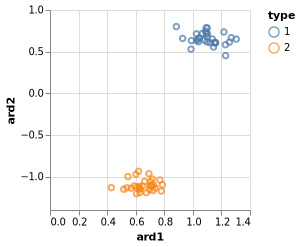
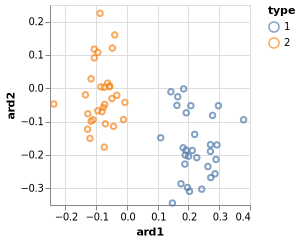
mu

Changed region(s): [[0.0, 0.0, 0.84, 0.9835], [0.87, 0.0289, 0.99, 0.2314]]

diff --git a/markdown/11-probabilistic-pca/11-probabilistic-pca.md b/markdown/11-probabilistic-pca/11-probabilistic-pca.md
@@ -93,34 +93,34 @@ DataFrames.stack(df_exp, 1:n_genes) |>
 
 
 
-Here, you see the simulated data. You can see two groups of cells that differ in the expression of genes. While the difference between the two groups of cells here is fairly obvious from looking at the raw data, in practice and with large enough data sets, it is often impossible to spot the differences from the raw data alone. If you have some patience and compute ressources you can increase the size of the dataset, or play around with the noise levels to make the problem increasingly harder.
+Here, you see the simulated data. You can see two groups of cells that differ in the expression of genes. While the difference between the two groups of cells here is fairly obvious from looking at the raw data, in practice and with large enough data sets, it is often impossible to spot the differences from the raw data alone. If you have some patience and compute resources you can increase the size of the dataset, or play around with the noise levels to make the problem increasingly harder.
 
 ### pPCA model
 ```julia
-@model function pPCA(x, ::Type{T} = Float64) where {T}
-
+@model function pPCA(x, ::Type{TV} = Array{Float64}) where {TV}
   # Dimensionality of the problem.
   N, D = size(x)
 
   # latent variable z
-  z = Matrix{T}(undef, D, N)
-  for n in 1:N
-    z[:, n] ~ MvNormal(D, 1.)
-  end
+  z ~ filldist(Normal(0.0, 1.0), D, N)
+
+  # side note for the curious
+  # we use the more concise filldist syntax partly for compactness, but also for compatibility with other AD
+  # backends, see the [Turing Performance Tipps](https://turing.ml/dev/docs/using-turing/performancetips)
+  # w = TV{2}(undef, D, D)
+  # for d in 1:D
+  #  w[d, :] ~ MvNormal(D, 1.)
+  # end
 
   # weights/loadings W
-  w = Matrix{T}(undef, D, D)
-  for d in 1:D
-    w[d, :] ~ MvNormal(D, 1.)
-  end
+  w ~ filldist(Normal(0.0, 1.0), D, D)
 
   # mean offset
-  mean ~ MvNormal(D, 1.0)
-  mu = w * z .+ mean
+  m ~ MvNormal(D, 1.0)
+  mu = (w * z .+ m)'
   for d in 1:D
-    x[:,d] ~ MvNormal(mu[d,:], 1.)
+    x[:,d] ~ MvNormal(mu[:,d], 1.)
   end
-
 end;
 ```
 
@@ -133,8 +133,7 @@ Here, we run the inference with the NUTS sampler. Feel free to try different sam
 
 ```julia
 ppca = pPCA(expression_matrix)
-n_iterations = 300
-chain = sample(ppca, NUTS(), MCMCThreads(), n_iterations, 1);
+chain = sample(ppca, NUTS(), 500);
 ```
 
 
@@ -146,13 +145,12 @@ chain = sample(ppca, NUTS(), MCMCThreads(), n_iterations, 1);
 A quick sanity check. We reconstruct the input data from our parameter estimates, using the posterior mean as parameter estimates.
 
 ```julia
-# Extract paramter estimates for plotting - mean of posterior
+# Extract parameter estimates for plotting - mean of posterior
 w = permutedims(reshape(mean(group(chain, :w))[:,2], (n_genes, n_genes)))
 z = permutedims(reshape(mean(group(chain, :z))[:,2], (n_genes, n_cells)))'
-mu = mean(group(chain, :mean))[:,2]
+mu = mean(group(chain, :m))[:,2]
 
 X = w * z .+ mu
-X = w * z
 
 df_rec = DataFrame(X', :auto)
 df_rec[!,:cell] = 1:n_cells
@@ -205,43 +203,30 @@ You can find more details about this in the Bishop book mentioned in the introdu
 
 
 ```julia
-@model function pPCA_ARD(x, ::Type{T} = Float64) where {T}
-
+@model function pPCA_ARD(x, ::Type{TV} = Array{Float64}) where {TV}
   # Dimensionality of the problem.
   N, D = size(x)
 
   # latent variable z
-  z = Matrix{T}(undef, D, N)
-  for n in 1:N
-    z[:, n] ~ MvNormal(D, 1.)
-  end
+  z ~ filldist(Normal(), D, N)
 
   # weights/loadings w with Automatic Relevance Determination part
-  alpha = Vector{T}(undef, D)
-  for d in 1:D
-    alpha[d] ~ Gamma(1., 1.)
-  end
+  alpha ~ filldist(Gamma(1., 1.), D)
+  w ~ filldist(MvNormal(1. ./ sqrt.(alpha)), D)
 
-  w = Matrix{T}(undef, D, D)
-  for d in 1:D
-    w[d, :] ~ MvNormal(zeros(D), 1. ./ sqrt.(alpha))
-  end
-
-  mu = w * z
+  mu = (w * z)'
 
   tau ~ Gamma(1.0, 1.0);
   for d in 1:D
-    x[:,d] ~ MvNormal(mu[d,:], 1. / sqrt(tau))
+    x[:,d] ~ MvNormal(mu[:, d], 1. / sqrt(tau))
   end
-
 end;
 ```
 
 
 ```julia
 ppca_ARD = pPCA_ARD(expression_matrix)
-n_iterations = 400
-chain = sample(ppca_ARD, NUTS(), MCMCThreads(), n_iterations, 1)
+chain = sample(ppca_ARD, NUTS(), 500)
 
 StatsPlots.plot(group(chain, :alpha))
 ```
@@ -262,15 +247,15 @@ z = permutedims(reshape(mean(group(chain, :z))[:,2], (n_genes, n_cells)))'
 
 ```
 9-element Vector{Float64}:
- 3.447150319289705
- 0.07532134194323332
- 0.07754397424990225
- 3.6029909065586874
- 3.4102919134808274
- 3.4895349964035596
- 3.380911472677809
- 3.507756238668494
- 3.5031739081430793
+ 0.25576143792759143
+ 0.2581926916026036
+ 0.27122756902110895
+ 4.357986513425213
+ 3.9485910549054957
+ 4.3886567845446125
+ 0.27628194041153903
+ 0.2623082444567099
+ 0.25699286794405307
 ```
 
 
@@ -339,18 +324,16 @@ First, let's look at the original data using the pPCA model.
 ```julia
 ppca = pPCA(dat)
 
-# Here we use a different samples, we don't always have to use NUTS:
+# Here we use a different sampler, we don't always have to use NUTS:
 # Hamiltonian Monte Carlo (HMC) sampler parameters
-n_iterations = 500
 ϵ = 0.05
 τ = 10
+chain = sample(ppca, HMC(ϵ, τ), 1000)
 
-chain = sample(ppca, HMC(ϵ, τ), n_iterations)
-
-# Extract paramter estimates for plotting - mean of posterior
+# Extract parameter estimates for plotting - mean of posterior
 w = permutedims(reshape(mean(group(chain, :w))[:,2], (d,d)))
 z = permutedims(reshape(mean(group(chain, :z))[:,2], (d, n)))'
-mu = mean(group(chain, :mean))[:,2]
+mu = mean(group(chain, :m))[:,2]
 
 X = w * z
 # X = w * z .+ mu
@@ -384,7 +367,7 @@ effect = rand(Normal(2.4, 0.6), 150)
 batch_dat = dat .+ batch .* effect
 
 ppca_batch = pPCA(batch_dat)
-chain = sample(ppca_batch, HMC(ϵ, τ), 500)
+chain = sample(ppca_batch, HMC(ϵ, τ), 1000)
 describe(chain)[1]
 
 z = permutedims(reshape(mean(group(chain, :z))[:,2], (d, n)))'
@@ -407,34 +390,28 @@ In order to correct for the batch effect, we need to know about the assignment o
 In our example, this means knowing which ruler was used for which measurement, here encoded via the batch variable.
 
 ```julia
-@model function pPCA_residual(x, batch, ::Type{T} = Float64) where {T}
+@model function pPCA_residual(x, batch, ::Type{TV} = Array{Float64}) where {TV}
 
   # Dimensionality of the problem.
   N, D = size(x)
 
   # latent variable z
-  z = Matrix{T}(undef, D, N)
-  for n in 1:N
-    z[:, n] ~ MvNormal(D, 1.)
-  end
+  z ~ filldist(Normal(), D, N)
 
   # weights/loadings w
-  w = Matrix{T}(undef, D, D)
-  for d in 1:D
-    w[d, :] ~ MvNormal(D, 1.)
-  end
+  w ~ filldist(Normal(), D, D)
 
   # covariate vector
-  w_batch = Vector{T}(undef, D)
+  w_batch = TV{1}(undef, D)
   w_batch ~ MvNormal(D, 1.)
 
   # mean offset
-  mean = Vector{T}(undef, D)
-  mean ~ MvNormal(D, 1.0)
-  mu = w * z .+ mean + w_batch .* batch'
+  m = TV{1}(undef, D)
+  m ~ MvNormal(D, 1.0)
+  mu = m .+ w * z + w_batch .* batch'
 
   for d in 1:D
-    x[:,d] ~ MvNormal(mu[d,:], 1.)
+    x[:,d] ~ MvNormal(mu'[:,d], 1.)
   end
 
 end;
